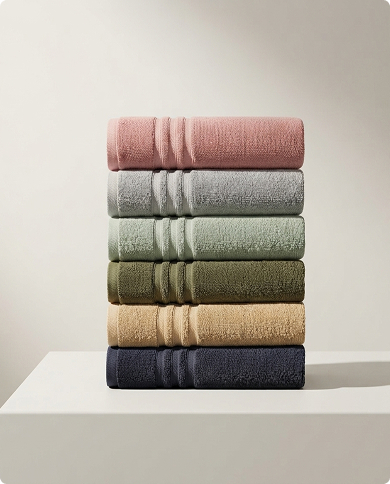
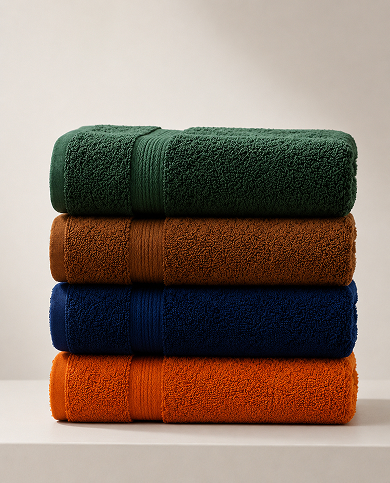
Add files via upload

diff --git a/css/styles.css b/css/styles.css
@@ -14672,6 +14672,11 @@ footer p {
   z-index: 2;
   pointer-events: none;
 }
+@media (min-width: 1920px) {
+  .testimonials-swiper-wrapper::before {
+    left: -366px !important;
+  }
+}
 .testimonials-swiper-wrapper::after {
   content: "";
   position: absolute;
@@ -14682,6 +14687,11 @@ footer p {
   background: linear-gradient(to right, rgba(247, 248, 249, 0) 0%, rgba(247, 248, 249, 0.85) 40%, #f7f8f9 75%);
   z-index: 2;
   pointer-events: none;
+}
+@media (min-width: 1920px) {
+  .testimonials-swiper-wrapper::after {
+    right: -366px !important;
+  }
 }
 
 .testimonial-swiper {

diff --git a/about.html b/about.html
@@ -202,7 +202,7 @@
                         <div class="stat-card">
                             <div class="stat-icon"><i class="ri-user-star-fill"></i></div>
                             <div class="pb-3">
-                                <p class="stat-label">Years of Experience</p>
+                                <p class="stat-label">Years in Business</p>
                                 <p class="stat-number">
                                     <span class="counter" data-target="25">0</span><span class="stat-suffix">+</span>
                                 </p>
@@ -450,7 +450,7 @@
                                 <div class="trust-avatar" style="background-color:#9aa5b0;"></div>
                                 <div class="trust-avatar" style="background-color:#5c6e7e;"></div>
                             </div>
-                            <span class="trust-label">Trusted By Industry Leaders</span>
+                            <span class="trust-label">Trusted By Importers Worldwide</span>
                         </div>
                     </div>
                     <!-- Right: Label + Heading -->

diff --git a/index.html b/index.html
@@ -294,7 +294,7 @@
                         <div class="stat-card">
                             <div class="stat-icon"><i class="ri-user-star-fill"></i></div>
                             <div class="pb-3">
-                                <p class="stat-label">Years of Experience</p>
+                                <p class="stat-label">Years in Business</p>
                                 <p class="stat-number"><span class="counter" data-target="25">0</span><span
                                         class="stat-suffix">+</span></p>
                             </div>
@@ -1023,7 +1023,7 @@
                                 <div class="trust-avatar" style="background-color:#9aa5b0;"></div>
                                 <div class="trust-avatar" style="background-color:#5c6e7e;"></div>
                             </div>
-                            <span class="trust-label">Trusted By Industry Leaders</span>
+                            <span class="trust-label">Trusted By Importers Worldwide</span>
                         </div>
                     </div>
                     <!-- Right: Label + Heading -->